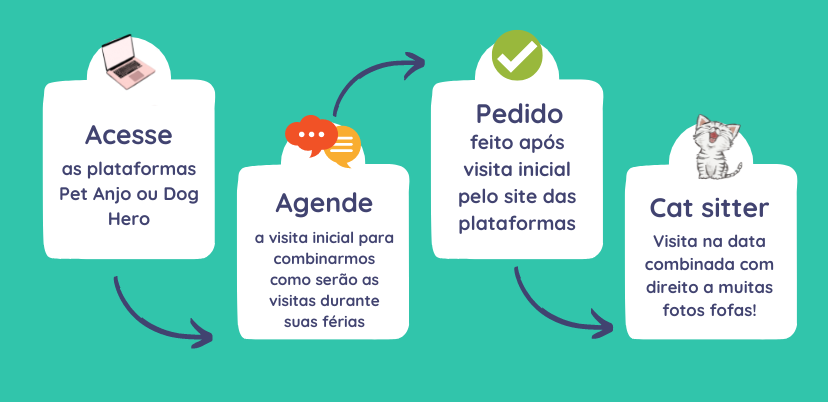
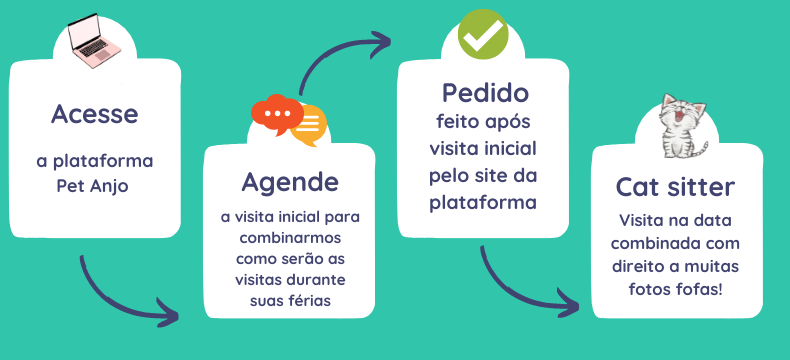
atualizando informações

Changed region(s): [[0.0, 0.0306, 0.9722, 0.9167]]

diff --git a/index.html b/index.html
@@ -64,7 +64,7 @@
             <div class="conteudo-final">
                     <h3 class="titulo" id="section3">Conheça a Cat Sitter</h3>
                         <img class="imagem-perfil" src="img/perfil.svg" />
-                    <p class="descricao-texto">Olá, meu nome é Natália!<br/>Sou médica veterinária e cuido de gatinhos como cat sitter há 5 anos.<br/>
+                    <p class="descricao-texto">Olá, meu nome é Natália!<br/>Sou médica veterinária e cuido de gatinhos como cat sitter há 7 anos.<br/>
                       Estou sempre rodeada de animais, seja na minha vida pessoal ou na profissional. Eles são a minha vida e vou amar cuidar do seu gatinho para que ele não se sinta sozinho.<br/>
                       Vamos nos divertir muito!! E garanto que você vai receber relatórios com fotos lindas, para acompanhar tudo sobre o seu pet!!</p>
             </div>
@@ -72,11 +72,10 @@
             <div class="conteudo-final">
                 <h3 class="titulo" id="section4">Entre em contato</h3>
                 <div class="tenor-gif-embed" data-postid="18240062" data-share-method="host" data-aspect-ratio="1.81818" data-width="100%"><a href="https://tenor.com/view/cat-typing-gif-18240062">Cat Typing GIF</a>from <a href="https://tenor.com/search/cat-gifs">Cat GIFs</a></div> <script type="text/javascript" async src="https://tenor.com/embed.js"></script>                
-                <p class="descricao-texto">Contrate pelo seu app preferido:</p>
+                <p class="descricao-texto">Contrate aqui:</p>
                 <a href="https://petanjo.com/visita-pet-sitter-para-gato/anjos/pet-sitter-dos-gatinhos-410" target="_blank"><img class="logo" src="img/petanjo.png"></a>
-                <a href="https://www.doghero.com.br/heroi/496731-Pet-sitter-dos-gatinhos" target="_blank"><img class="logo" src="img/doghero.png"></a>
-                <p>Atendimentos na região da Consolação em São Paulo/SP</p>
-                <p>Para outras cidades e regiões, <a href="https://petanjo.com" target="_blank">clique aqui</a> ou <a href="https://doghero.com.br" target="_blank">aqui.</a></p>
+                <p class="descricao-texto">Atendimentos na região da Consolação, Higienópolis, Santa Cecília, Perdizes, Pinheiros e regiões próximas em São Paulo/SP</p>
+                <p>Para outras cidades e regiões, <a href="https://petanjo.com" target="_blank">clique aqui.</a></p>
               </div>
         </div>
       </section>

diff --git a/style.css b/style.css
@@ -87,7 +87,7 @@ a:hover {
 .imagem-perfil {
     border-radius: 10px;
     margin-bottom: 5px;
-    width: 30%;
+    width: 45%;
 }
 
 .conteudo-final {
@@ -151,9 +151,13 @@ a:hover {
     .sessao-servicos {
         margin: 0 5rem;
         font-size: 20px;
-      }
+    }
 
-      .conteudo-catsitter {
+    .imagem-servicos {
+        width: 75%;
+    }
+
+    .conteudo-catsitter {
         display: flex;
         flex-wrap: wrap;
         margin: 0 auto;
